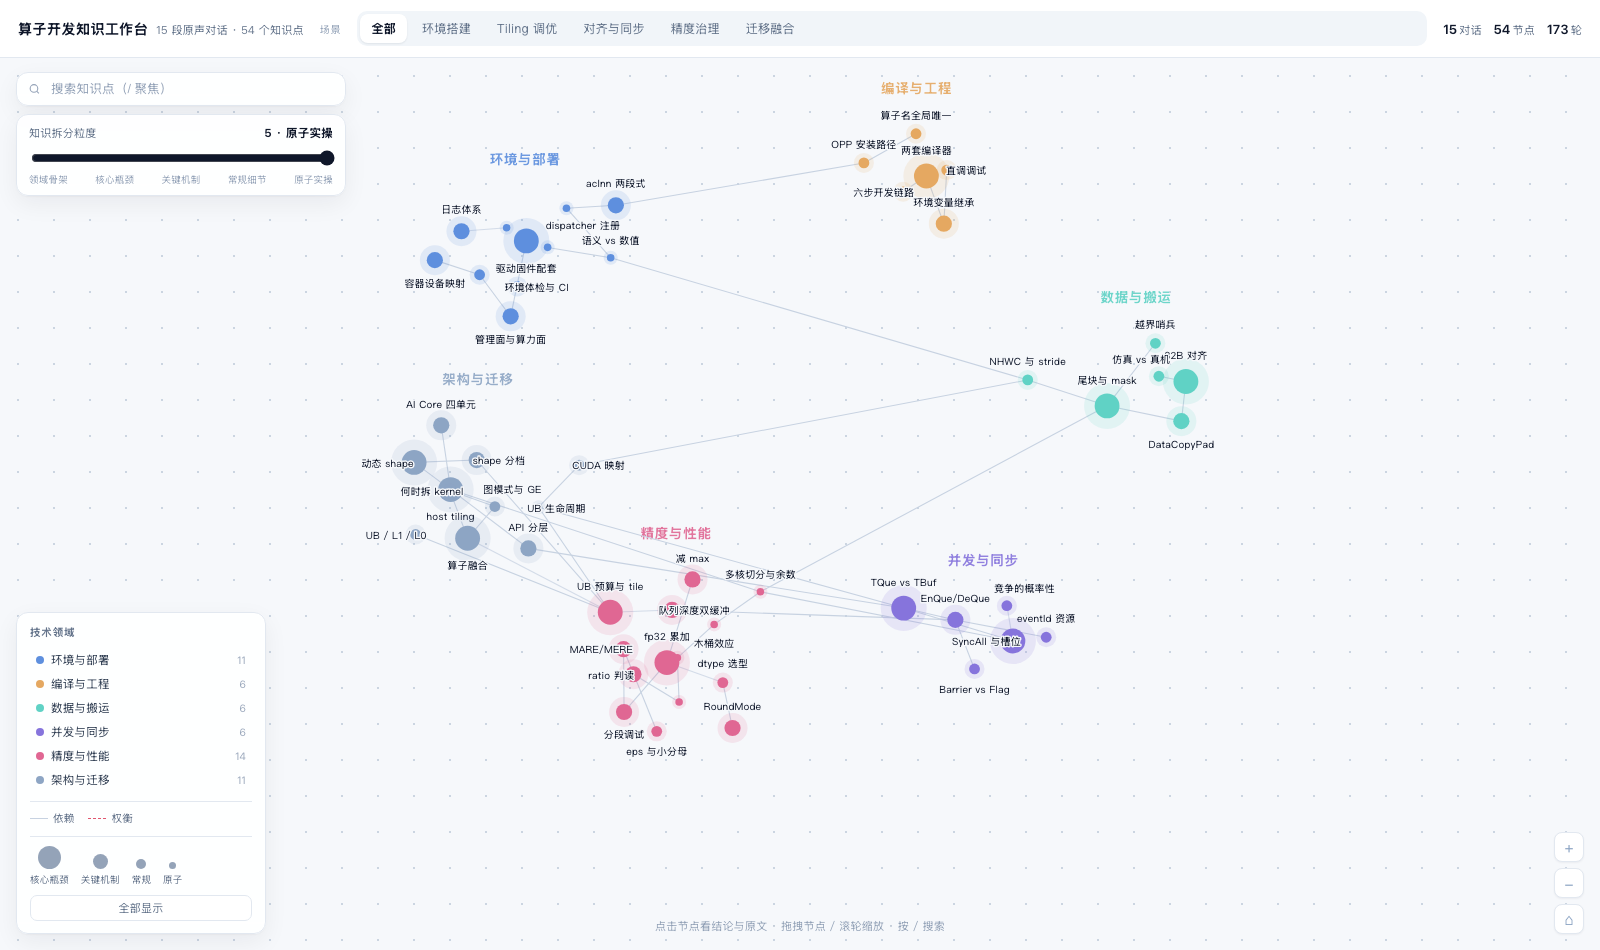
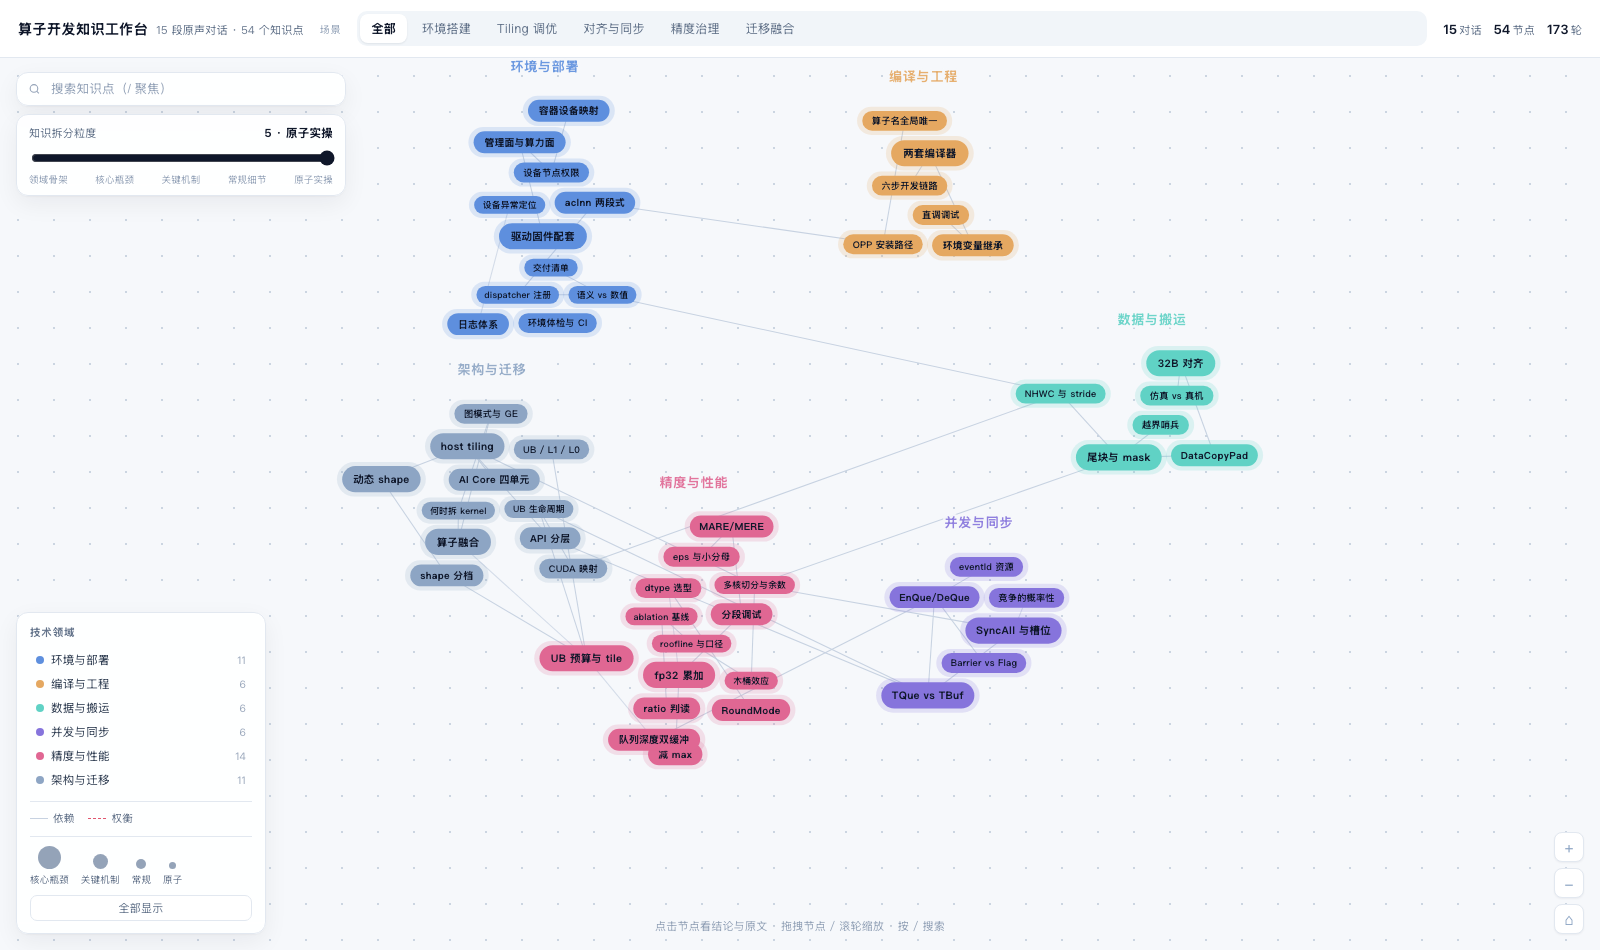
feat: 节点改为胶囊（名字内置），矩形碰撞与分离布局

diff --git a/cann-dashboard/算子知识工作台.html b/cann-dashboard/算子知识工作台.html
@@ -88,18 +88,19 @@
 
   /* ---------- svg ---------- */
   .glow{opacity:0;transition:opacity .28s}
-  .domtitle{font-size:12.5px;font-weight:700;letter-spacing:.4px;opacity:.9}
+  .domtitle{font-size:12.5px;font-weight:700;letter-spacing:.4px;opacity:.9;
+    paint-order:stroke;stroke:#F6F8FB;stroke-width:5px;stroke-linejoin:round}
   .edge{stroke:#C7D2E1;stroke-width:1;fill:none}
   .edge.dep{stroke:#C7D2E1}
   .edge.trade{stroke:#E1566F;stroke-dasharray:6 4}
   .edge.agg{stroke-opacity:.75}
   .node{cursor:pointer}
-  .node .core{stroke:none}
-  .node .halo{opacity:.14;transition:opacity .18s}
-  .node:hover .halo,.node.sel .halo{opacity:.34}
-  .node.nb .halo{opacity:.14}
-  .node text{font-size:9.2px;fill:#0F172A;text-anchor:middle;pointer-events:none;
-    paint-order:stroke;stroke:var(--bg);stroke-width:2.6px;stroke-linejoin:round}
+  .cap{stroke:none}
+  .caphalo{opacity:.18;transition:opacity .18s}
+  .node:hover .caphalo,.node.sel .caphalo{opacity:.34}
+  .node.nb .caphalo{opacity:.26}
+  .node text{fill:#0F172A;text-anchor:middle;pointer-events:none}
+  .node:hover .cap{filter:brightness(1.04)}
   .lblbg{fill:#fff;stroke:#E2E8F0;stroke-width:1;rx:6;opacity:0;pointer-events:none;
     filter:drop-shadow(0 3px 8px rgba(15,23,42,.14))}
   .node:hover .lblbg,.node.sel .lblbg{opacity:1}
@@ -170,6 +171,7 @@
     padding:4px 6px;background:#fff;color:#334155;max-width:190px}
   #stream{flex:1;overflow-y:auto;padding:6px 12px 40px}
 
+  .grpw{position:relative}
   .grp{position:sticky;top:-6px;z-index:3;display:flex;align-items:center;gap:6px;
     margin:0 -6px 2px;padding:9px 12px 7px;background:#FFFFFF;
     border-bottom:1px solid var(--line);box-shadow:0 -10px 0 #fff,0 3px 8px rgba(15,23,42,.05);
@@ -218,10 +220,10 @@
       <defs id="defs"></defs>
       <g id="viewport">
         <g id="glows"></g>
-        <g id="domtitles"></g>
         <g id="edges"></g>
         <g id="eglabels"></g>
         <g id="nodes"></g>
+        <g id="domtitles"></g>
       </g>
     </svg>
 
@@ -357,10 +359,15 @@ function step(list,links,alpha){
       let dx=b.x-a.x, dy=b.y-a.y, d2=dx*dx+dy*dy;
       if(d2<1){dx=.6;dy=.6;d2=1;}
       if(d2>90000) continue;
-      const d=Math.sqrt(d2), f=2800/d2, ux=dx/d, uy=dy/d;
+      const d=Math.sqrt(d2), f=3200/d2, ux=dx/d, uy=dy/d;
       a.fx-=ux*f; a.fy-=uy*f; b.fx+=ux*f; b.fy+=uy*f;
-      const min=a.__r+b.__r+9;
-      if(d<min){const p=(min-d)*.5; a.fx-=ux*p; a.fy-=uy*p; b.fx+=ux*p; b.fy+=uy*p;}
+      const pad=10;
+      const ox=(a.__w+b.__w)/2+pad-Math.abs(dx);
+      const oy=(a.__h+b.__h)/2+pad-Math.abs(dy);
+      if(ox>0&&oy>0){
+        if(ox<oy){ const p=ox*0.5*(dx>=0?1:-1); a.fx-=p; b.fx+=p; }
+        else     { const p=oy*0.5*(dy>=0?1:-1); a.fy-=p; b.fy+=p; }
+      }
     }
   }
   links.forEach(([a,b])=>{
@@ -375,8 +382,8 @@ function step(list,links,alpha){
   list.forEach(n=>{
     const d=domById[n.dom];
     if(n.anchor){ n.x=d.cx; n.y=d.cy; n.vx=0; n.vy=0; return; }
-    n.fx+=(d.cx-n.x)*0.05;
-    n.fy+=(d.cy-n.y)*0.05;
+    n.fx+=(d.cx-n.x)*0.08;
+    n.fy+=(d.cy-n.y)*0.08;
     n.fx+=(W.x/2-n.x)*0.0012;
     n.fy+=(W.y/2-n.y)*0.0012;
   });
@@ -390,12 +397,41 @@ function step(list,links,alpha){
     n.y=Math.max(80,Math.min(W.y-60,n.y));
   });
 }
-function relayout(steps=120){
+function separate(list,iters=220){
+  const pad=9;
+  for(let k=0;k<iters;k++){
+    let moved=false;
+    for(let i=0;i<list.length;i++){
+      const a=list[i];
+      for(let j=i+1;j<list.length;j++){
+        const b=list[j];
+        let dx=b.x-a.x, dy=b.y-a.y;
+        const ox=(a.__w+b.__w)/2+pad-Math.abs(dx);
+        const oy=(a.__h+b.__h)/2+pad-Math.abs(dy);
+        if(ox<=0||oy<=0) continue;
+        if(ox<oy){
+          const p=ox*0.5*(dx>=0?1:-1);
+          a.x-=p; b.x+=p;
+        } else {
+          const p=oy*0.5*(dy>=0?1:-1);
+          a.y-=p; b.y+=p;
+        }
+        moved=true;
+      }
+    }
+    if(!moved) break;
+  }
+}
+function relayout(steps=160){
   const list=visibleNodes();
-  list.forEach(n=>{ n.__r=R[n.w]; });
   initPositions(list);
   const links=layoutLinks(list);
   for(let k=0;k<steps;k++) step(list,links,1-k/steps);
+  separate(list);
+  list.forEach(n=>{
+    n.x=Math.max(n.__w/2+20,Math.min(W.x-n.__w/2-20,n.x));
+    n.y=Math.max(n.__h/2+40,Math.min(W.y-n.__h/2-20,n.y));
+  });
   render();
 }
 
@@ -490,28 +526,44 @@ function buildEdges(visSet){
 let measureCtx=document.createElement('canvas').getContext('2d');
 function textW(t,fs=9.8){ measureCtx.font=fs+'px "PingFang SC",sans-serif'; return measureCtx.measureText(t).width; }
 
+const CAP={3:{h:25,fs:10,pad:11,fw:700},2:{h:21,fs:9.4,pad:10,fw:600},
+            1:{h:19,fs:8.8,pad:9,fw:500},0:{h:17,fs:8.4,pad:8,fw:500}};
+function capSize(n){
+  const c=CAP[n.w];
+  return {w:Math.ceil(textW(n.name,c.fs)+c.pad*2),h:c.h,fs:c.fs,fw:c.fw};
+}
 function buildNodes(){
   const g=$('#nodes');
   NODES.forEach(n=>{
+    const size=capSize(n);
+    n.__w=size.w; n.__h=size.h;
     const el=document.createElementNS(NS,'g');
     el.setAttribute('class','node'); el.dataset.id=n.id;
-    const halo=document.createElementNS(NS,'circle');
-    halo.setAttribute('class','halo');
-    halo.setAttribute('r',R[n.w]*1.85);
+
+    const halo=document.createElementNS(NS,'rect');
+    halo.setAttribute('class','caphalo');
+    halo.setAttribute('x',-(size.w/2+5)); halo.setAttribute('y',-(size.h/2+4));
+    halo.setAttribute('width',size.w+10); halo.setAttribute('height',size.h+8);
+    halo.setAttribute('rx',(size.h+8)/2);
     halo.setAttribute('fill',domById[n.dom].color);
     el.appendChild(halo);
 
-    const c=document.createElementNS(NS,'circle');
-    c.setAttribute('class','core');
-    c.setAttribute('r',R[n.w]); c.setAttribute('fill',domById[n.dom].color);
-    el.appendChild(c);
-    const bg=document.createElementNS(NS,'rect');
-    bg.setAttribute('class','lblbg'); bg.setAttribute('height',15); bg.setAttribute('rx',6);
-    el.appendChild(bg);
+    const cap=document.createElementNS(NS,'rect');
+    cap.setAttribute('class','cap');
+    cap.setAttribute('x',-size.w/2); cap.setAttribute('y',-size.h/2);
+    cap.setAttribute('width',size.w); cap.setAttribute('height',size.h);
+    cap.setAttribute('rx',size.h/2);
+    cap.setAttribute('fill',domById[n.dom].color);
+    el.appendChild(cap);
+
     const t=document.createElementNS(NS,'text');
-    t.setAttribute('y',R[n.w]+12); t.textContent=n.name;
+    t.setAttribute('y',size.fs*0.36);
+    t.setAttribute('font-size',size.fs);
+    t.setAttribute('font-weight',size.fw);
+    t.textContent=n.name;
     el.appendChild(t);
-    n.__el=el; n.__c=c; n.__t=t; n.__bg=bg;
+
+    n.__el=el;
     el.addEventListener('pointerenter',()=>hover(n.id));
     el.addEventListener('pointerleave',()=>hover(null));
     el.addEventListener('pointerdown',e=>startDrag(e,n));
@@ -525,7 +577,6 @@ function render(){
 
   // 节点位置与尺寸
   list.forEach(n=>{
-    n.__c.setAttribute('r',R[n.w]);
     n.__el.setAttribute('transform',`translate(${n.x.toFixed(1)},${n.y.toFixed(1)})`);
   });
 
@@ -543,7 +594,6 @@ function render(){
     e.__el=ln; eg.appendChild(ln);
   });
 
-  placeLabels(list);
   renderDomains(list);
   applyHighlight();
 }
@@ -697,14 +747,17 @@ function renderStream(){
 
   const list=ROUNDS.filter(r=>sceneSet.has(r.c)&&(!only||r.c===only));
   const frag=document.createDocumentFragment();
-  let last=null;
+  let last=null, wrap=null;
   list.forEach(r=>{
     if(r.c!==last){
       const total=ROUNDS.filter(x=>x.c===r.c).length;
+      wrap=document.createElement('div');
+      wrap.className='grpw';
+      frag.appendChild(wrap);
       const h=document.createElement('div');
       h.className='grp';
       h.innerHTML=`${dlgByN[r.c].t}<span class="grp-r">1–${total} 轮</span>`;
-      frag.appendChild(h); last=r.c;
+      wrap.appendChild(h); last=r.c;
     }
     const el=document.createElement('div');
     el.className='round'; el.id=`r-${r.c}-${r.r}`;
@@ -716,7 +769,7 @@ function renderStream(){
       ${chips?`<div class="chips">${chips}</div>`:''}`;
     el.querySelectorAll('.tx').forEach(t=>t.onclick=()=>t.classList.toggle('open'));
     el.querySelectorAll('[data-node]').forEach(b=>b.onclick=()=>onChip(b.dataset.node));
-    frag.appendChild(el);
+    wrap.appendChild(el);
   });
   box.appendChild(frag);
 }
@@ -761,10 +814,11 @@ function onChip(id){
 function fitView(animate){
   const list=visibleNodes();
   if(!list.length) return;
-  const xs=list.map(n=>n.x), ys=list.map(n=>n.y);
-  const pad=70;
-  const minX=Math.min(...xs)-pad, maxX=Math.max(...xs)+pad;
-  const minY=Math.min(...ys)-pad, maxY=Math.max(...ys)+pad;
+  const pad=40;
+  const minX=Math.min(...list.map(n=>n.x-n.__w/2))-pad;
+  const maxX=Math.max(...list.map(n=>n.x+n.__w/2))+pad;
+  const minY=Math.min(...list.map(n=>n.y-n.__h/2))-pad;
+  const maxY=Math.max(...list.map(n=>n.y+n.__h/2))+pad;
   const w=$('#stage').clientWidth, h=$('#stage').clientHeight;
   const k=Math.min(w/(maxX-minX), h/(maxY-minY), 1.6);
   const tx=w/2-((minX+maxX)/2)*k, ty=h/2-((minY+maxY)/2)*k;
